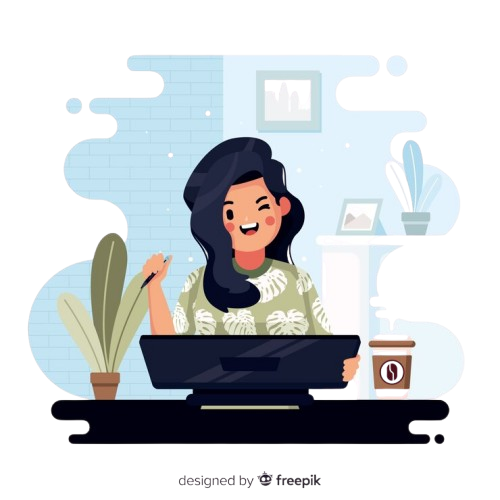
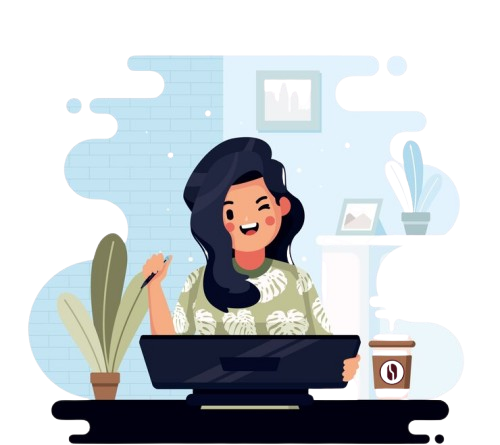
Fixed

diff --git a/index.html b/index.html
@@ -19,7 +19,7 @@
    </div>
    <div class="hero-image">
      <div class="circle-image">
-       <img src="./assets/images/software-developer-vector-illustration-communication-technology-cyber-security_1249867-5464.avif" alt="Illustration of Developer" />
+       <img src="./assets/images/programming-concept-illustration_114360-2165-removebg-preview.png"/>
      </div>
    </div>
  </div>
@@ -29,18 +29,18 @@
   <section id="projects">
     <div class="project">
       <div class="project-info">
-        <h2><a href="./public/3.4 Birthday Invite Project/index.html">Birthday Invite Project</a></h2>
-        <p>This is a fun little project where I created a birthday invitation page.</p>
+        <h2><a href="">The Health Tracker</a></h2>
+        <p>My most recent project... (to be updated soon)&thinsp;&thinsp;&thinsp;&thinsp;&thinsp;&thinsp;&nbsp;&thinsp;&thinsp;&thinsp;&emsp;&emsp;&emsp;</p>
       </div>
-      <img src="./assets/images/Screenshot 2024-09-29 175523.jpg" alt="Birthday Invite screenshot" height="100" width="400" />
+      <img src="./assets/images/Screenshot 2025-04-22 084021.png" alt="Birthday Invite screenshot" height="100" width="400" />
     </div>
 
     <div class="project">
       <div class="project-info">
-        <h2><a href="./public/BookBlend/home.html">A Naive Attempt - BookBlend</a></h2>
+        <h2><a href="">A Naive Attempt - BookBlend</a></h2>
         <p>A concept design for a book-themed application interface.</p>
       </div>
-      <img src="./assets/images/BookBlend.png" alt="BookBlend project screenshot" height="200" width="400" />
+      <img src="./assets/images/Screenshot 2025-04-22 084250.png" alt="BookBlend project screenshot" height="200" width="400" />
     </div>
   </section>
 
@@ -48,12 +48,12 @@
 <section class="skills-section">
    <h2>Skills</h2>
    <div class="skills-grid">
-     <div class="skill">C++</div>
-     <div class="skill">JavaScript</div>
-     <div class="skill">HTML</div>
+     <div class="skill">C++, &thinsp; JavaScript, &thinsp; HTML,&thinsp; CSS,&thinsp; C, &thinsp;DSA,&thinsp;  Java&thinsp; OOPS, &thinsp; OS, &thinsp; DBMS, &thinsp;React, &thinsp; NodeJS</div>
+     <!-- <div class="skill"></div>
+     <div class="skill"></div>
      <div class="skill">CSS</div>
      <div class="skill">C</div>
-     <div class="skill">DSA</div>
+     <div class="skill">DSA</div> -->
    </div>
  </section>
  

diff --git a/index.css b/index.css
@@ -73,7 +73,7 @@
   
   /* Profile Intro Section */
   /* Hero Section */
-.hero {
+.hero, #projects, .skills-section{
     display: flex;
     justify-content: space-around;
     align-items: center;
@@ -120,6 +120,7 @@
     width: 450px;
     height: 450px;
      /* yellow background */
+    background-color: rgb(255, 174, 0,0.7);
     border-radius: 50%;
     display: flex;
     justify-content: center;
@@ -127,8 +128,10 @@
     box-shadow: 0 8px 30px rgba(0, 0, 0, 0.2);
   }
   .circle-image img {
-    width: 320px;
-    height: auto;
+    width: auto;
+    height: 380px;
+    padding-bottom: 3px;
+    box-shadow: none;
   }
   
   
